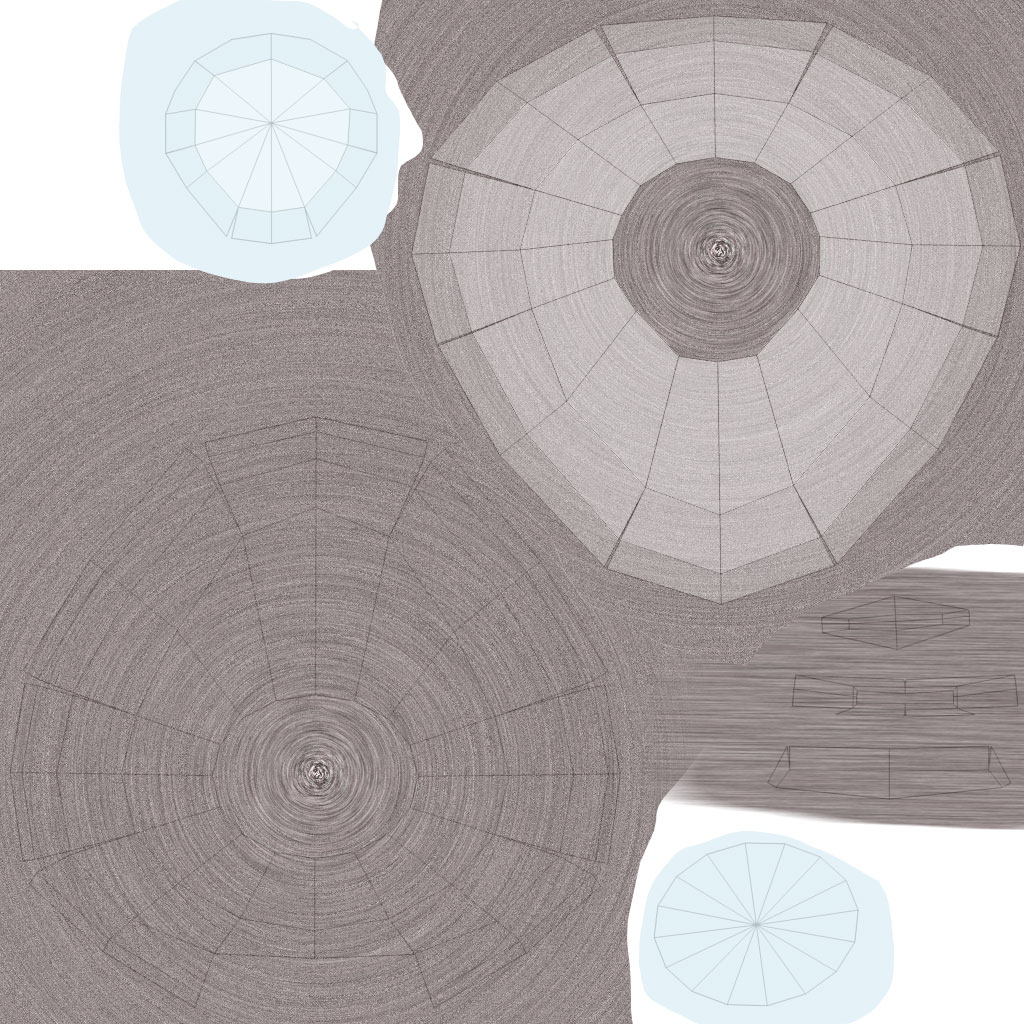
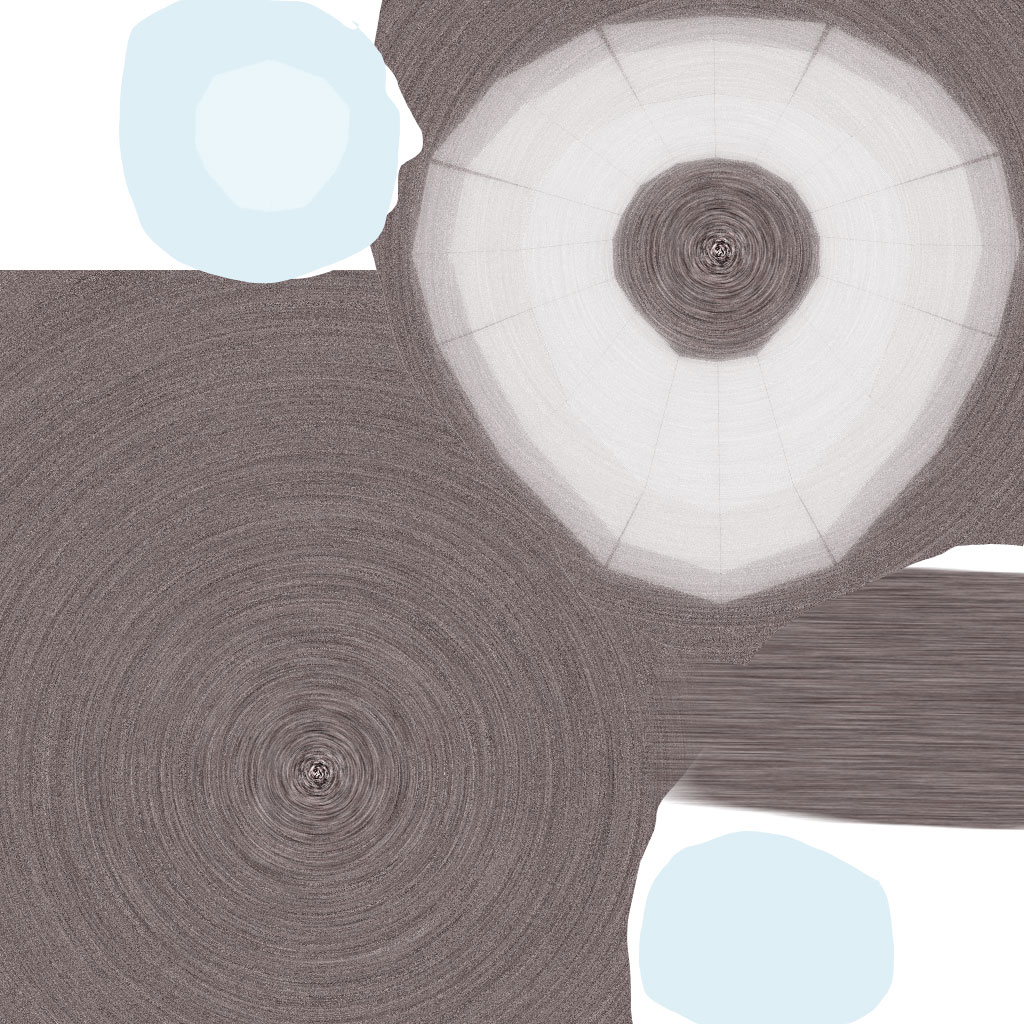
Dynamic terrain.

diff --git a/js/game.js b/js/game.js
@@ -14,7 +14,7 @@ gameSettings.controls = 'mouse';
 
 /**
  * List with current equiped weapons. Interval is based on time but might need to base it
- * on frames. (Use a counter loop in render() perhaps. Minimum of 50 microseconds.
+ * on frames. (Use a counter loop in the render() perhaps. Minimum of 50 microseconds.
  * Weapons that are available can be found in availableWeapons array.
  * @see js/weapons.js
  * @type {Array}
@@ -74,7 +74,7 @@ currentWeapons = JSON.parse(currentWeapons);
 var gameObjects                 = new Object();
 var scene = new THREE.Scene();
 var renderer = new THREE.WebGLRenderer();
-var camera = new THREE.PerspectiveCamera(45,window.innerWidth / window.innerHeight , 0.1, 170); // 170); // window.innerWidth / window.innerHeight
+var camera = new THREE.PerspectiveCamera(45,window.innerWidth / window.innerHeight , 0.1, 1170); // 170); // window.innerWidth / window.innerHeight
 if (gameSettings.quality == 'high') {
     renderer.shadowMapEnabled = true;
 }
@@ -164,6 +164,8 @@ function newGame() {
 function playMission(missionCode) {
     newGame();
     mission = missions[missionCode];
+
+    generateTerrain();
 
     $('#container').innerHTML = '<div class="pause" id="pause" style="display: none;"></div><div class="overlay" id="overlay"></div><div class="ui" id="ui"></div>';
 
@@ -266,7 +268,6 @@ function playMission(missionCode) {
         gameOptions.move = true;
         document.getElementById('overlay').className = 'overlay fadeOut';
     }, 750);
-
     render(); // Start looping the game
 }
 
@@ -879,6 +880,115 @@ function clearScene() {
         var obj = spawnedObjects.game[key];
         scene.remove(obj);
     }
+}
+
+function generateTerrain() {
+    worldWidth = 40;
+    worldDepth = 360;
+    data = generateHeight( worldWidth, worldDepth );
+    var geometry = new THREE.PlaneGeometry( 300, 3200, worldWidth - 1, worldDepth - 1 );
+    geometry.applyMatrix( new THREE.Matrix4().makeRotationX( - Math.PI / 2 ) );
+    for ( var i = 0, l = geometry.vertices.length; i < l; i ++ ) {
+        geometry.vertices[ i ].y = data[ i ] * 1.5;
+    }
+    texture = new THREE.Texture( generateTexture( data, worldWidth, worldDepth ), new THREE.UVMapping(), THREE.ClampToEdgeWrapping, THREE.ClampToEdgeWrapping );
+    texture.needsUpdate = true;
+    gameObjects['terrain'] = new THREE.Mesh( geometry, new THREE.MeshBasicMaterial( { map: texture } ) );
+    scene.add( gameObjects['terrain'] );
+    gameObjects['terrain'].position.z = 1500; // height;
+    if (gameSettings.quality == 'high') {
+        gameObjects['terrain'].receiveShadow = true;
+    }
+    renderer.setClearColor( 0xbfd1e5 );
+
+}
+
+function generateHeight( width, height ) {
+
+    var size = width * height, data = new Uint8Array( size ),
+      perlin = new ImprovedNoise(), quality = 1, z = Math.random() * 2;
+
+    for ( var j = 0; j < 4; j ++ ) {
+
+        for ( var i = 0; i < size; i ++ ) {
+
+            var x = i % width, y = ~~ ( i / width );
+            data[ i ] += Math.abs( perlin.noise( x / quality, y / quality, z ) * quality * 1.11 );
+
+        }
+
+        quality *= 2.22;
+
+    }
+
+    return data;
+
+}
+
+function generateTexture( data, width, height ) {
+
+    var canvas, canvasScaled, context, image, imageData,
+      level, diff, vector3, sun, shade;
+
+    vector3 = new THREE.Vector3( 0, 0, 0 );
+
+    sun = new THREE.Vector3( 1, 1, 1 );
+    sun.normalize();
+
+    canvas = document.createElement( 'canvas' );
+    canvas.width = width;
+    canvas.height = height;
+
+    context = canvas.getContext( '2d' );
+    context.fillStyle = '#000';
+    context.fillRect( 0, 0, width, height );
+
+    image = context.getImageData( 0, 0, canvas.width, canvas.height );
+    imageData = image.data;
+
+    for ( var i = 0, j = 0, l = imageData.length; i < l; i += 4, j ++ ) {
+
+        vector3.x = data[ j - 2 ] - data[ j + 2 ];
+        vector3.y = 2;
+        vector3.z = data[ j - width * 2 ] - data[ j + width * 2 ];
+        vector3.normalize();
+
+        shade = vector3.dot( sun );
+
+        imageData[ i ] = ( 96 + shade * 128 ) * ( 0.5 + data[ j ] * 0.007 );
+        imageData[ i + 1 ] = ( 32 + shade * 96 ) * ( 0.5 + data[ j ] * 0.007 );
+        imageData[ i + 2 ] = ( shade * 96 ) * ( 0.5 + data[ j ] * 0.007 );
+    }
+
+    context.putImageData( image, 0, 0 );
+
+    // Scaled 4x
+
+    canvasScaled = document.createElement( 'canvas' );
+    canvasScaled.width = width * 4;
+    canvasScaled.height = height * 4;
+
+    context = canvasScaled.getContext( '2d' );
+    context.scale( 4, 4 );
+    context.drawImage( canvas, 0, 0 );
+
+    image = context.getImageData( 0, 0, canvasScaled.width, canvasScaled.height );
+    imageData = image.data;
+
+    for ( var i = 0, l = imageData.length; i < l; i += 4 ) {
+
+        var v = ~~ ( Math.random() * 5 );
+
+        imageData[ i ] += v;
+        imageData[ i + 1 ] += v;
+        imageData[ i + 2 ] += v;
+
+    }
+
+    context.putImageData( image, 0, 0 );
+
+    return canvasScaled;
+
 }
 
 /**

diff --git a/js/lib/ImprovedNoise.js b/js/lib/ImprovedNoise.js
@@ -1,0 +1,71 @@
+// http://mrl.nyu.edu/~perlin/noise/
+
+var ImprovedNoise = function () {
+
+    var p = [151,160,137,91,90,15,131,13,201,95,96,53,194,233,7,225,140,36,103,30,69,142,8,99,37,240,21,10,
+        23,190,6,148,247,120,234,75,0,26,197,62,94,252,219,203,117,35,11,32,57,177,33,88,237,149,56,87,
+        174,20,125,136,171,168,68,175,74,165,71,134,139,48,27,166,77,146,158,231,83,111,229,122,60,211,
+        133,230,220,105,92,41,55,46,245,40,244,102,143,54,65,25,63,161,1,216,80,73,209,76,132,187,208,
+        89,18,169,200,196,135,130,116,188,159,86,164,100,109,198,173,186,3,64,52,217,226,250,124,123,5,
+        202,38,147,118,126,255,82,85,212,207,206,59,227,47,16,58,17,182,189,28,42,223,183,170,213,119,
+        248,152,2,44,154,163,70,221,153,101,155,167,43,172,9,129,22,39,253,19,98,108,110,79,113,224,232,
+        178,185,112,104,218,246,97,228,251,34,242,193,238,210,144,12,191,179,162,241,81,51,145,235,249,
+        14,239,107,49,192,214,31,181,199,106,157,184,84,204,176,115,121,50,45,127,4,150,254,138,236,205,
+        93,222,114,67,29,24,72,243,141,128,195,78,66,215,61,156,180];
+
+    for (var i=0; i < 256 ; i++) {
+
+        p[256+i] = p[i];
+
+    }
+
+    function fade(t) {
+
+        return t * t * t * (t * (t * 6 - 15) + 10);
+
+    }
+
+    function lerp(t, a, b) {
+
+        return a + t * (b - a);
+
+    }
+
+    function grad(hash, x, y, z) {
+
+        var h = hash & 15;
+        var u = h < 8 ? x : y, v = h < 4 ? y : h == 12 || h == 14 ? x : z;
+        return ((h&1) == 0 ? u : -u) + ((h&2) == 0 ? v : -v);
+
+    }
+
+    return {
+
+        noise: function (x, y, z) {
+
+            var floorX = ~~x, floorY = ~~y, floorZ = ~~z;
+
+            var X = floorX & 255, Y = floorY & 255, Z = floorZ & 255;
+
+            x -= floorX;
+            y -= floorY;
+            z -= floorZ;
+
+            var xMinus1 = x -1, yMinus1 = y - 1, zMinus1 = z - 1;
+
+            var u = fade(x), v = fade(y), w = fade(z);
+
+            var A = p[X]+Y, AA = p[A]+Z, AB = p[A+1]+Z, B = p[X+1]+Y, BA = p[B]+Z, BB = p[B+1]+Z;
+
+            return lerp(w, lerp(v, lerp(u, grad(p[AA], x, y, z),
+              grad(p[BA], xMinus1, y, z)),
+              lerp(u, grad(p[AB], x, yMinus1, z),
+                grad(p[BB], xMinus1, yMinus1, z))),
+              lerp(v, lerp(u, grad(p[AA+1], x, y, zMinus1),
+                grad(p[BA+1], xMinus1, y, z-1)),
+                lerp(u, grad(p[AB+1], x, yMinus1, zMinus1),
+                  grad(p[BB+1], xMinus1, yMinus1, zMinus1))));
+
+        }
+    }
+}

diff --git a/index.html b/index.html
@@ -19,6 +19,7 @@
 <script src="js/lib/tween.js"></script>
 <script src="js/lib/loader-manger.js"></script>
 <script src="js/lib/objloader.js"></script>
+<script src="js/lib/ImprovedNoise.js"></script>
 <script src="js/main.js"></script>
 <script src="js/weapons.js"></script>
 <script src="js/player.js"></script>

diff --git a/js/hangar.js b/js/hangar.js
@@ -253,7 +253,6 @@ function hangar() {
         spawnedObjects.hangar['toolbox-2'].castShadow = true;
         spawnedObjects.hangar['toolbox-3'].castShadow = true;
     }
-
     hangarAnimation();
 }
 
